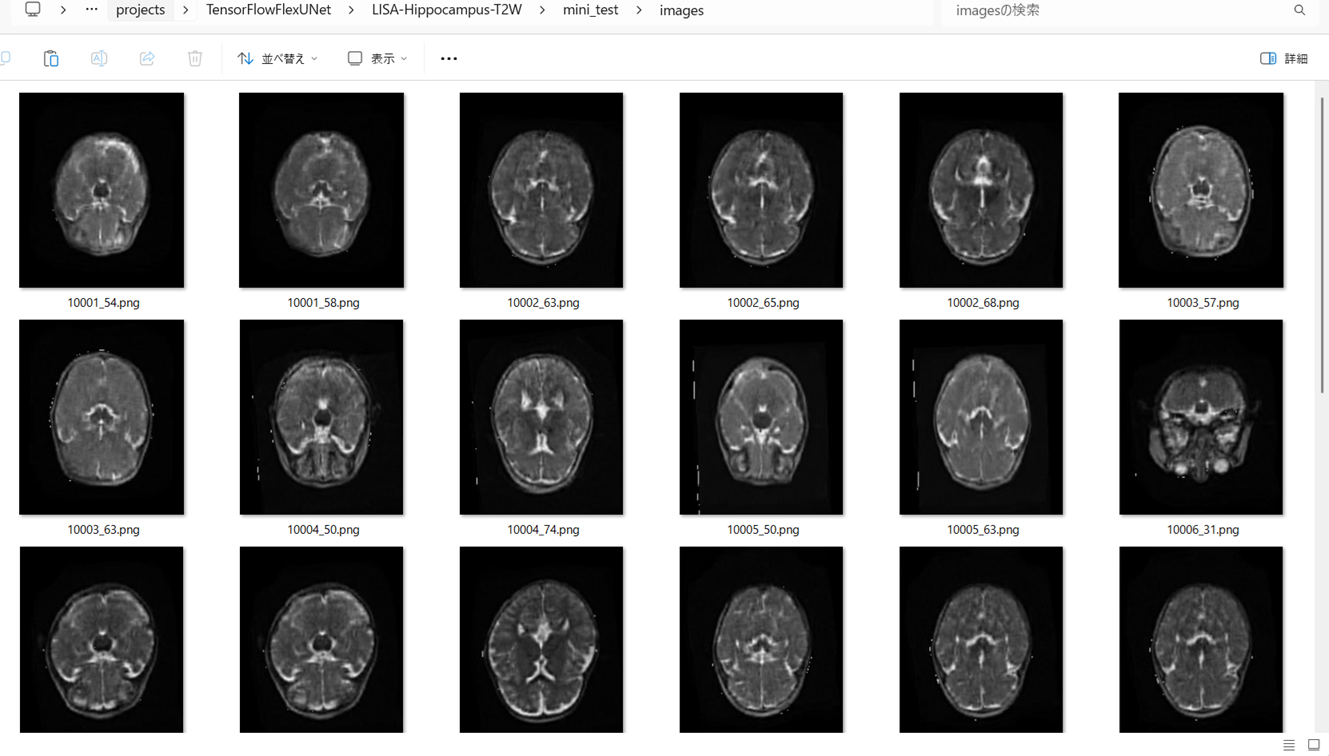
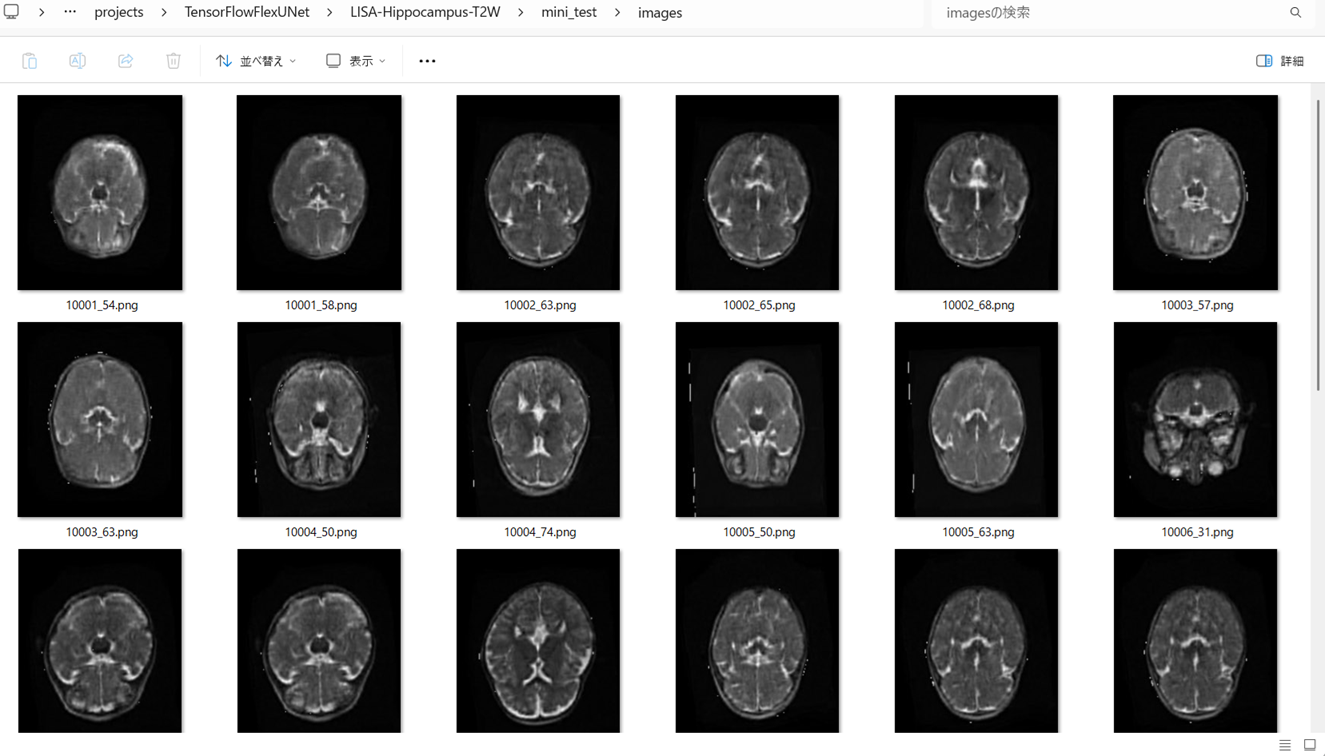
Updated README.md

diff --git a/README.md b/README.md
@@ -113,7 +113,7 @@ RISE-MICCAI-LISA-Hippocampus-T2W-ImageMask-Dataset.zip</a>, expand the downloade
 <b>LISA-Hippocampus-T2W Statistics</b><br>
 <img src ="./projects/TensorFlowFlexUNet/LISA-Hippocampus-T2W/LISA-Hippocampus-T2W_Statistics.png" width="512" height="auto"><br>
 <br><br>
-As shown above, the number of images of train and valid datasets is large enough to use for the
+As shown above, the number of images of train and valid datasets is not so large to use for the
  training set of our segmentation model.
 <br><br>
 <h3>2.2 Derivation PNG dataset</h3>
@@ -259,7 +259,7 @@ discouraging results.
 <img src="./projects/TensorFlowFlexUNet/LISA-Hippocampus-T2W/asset/epoch_change_infer_at_end.png" width="1024" height="auto"><br>
 <br>
 
-In this experiment, the training process was stopped at epoch 40 by EarlyStopping callback.<br><br>
+In this experiment, the training process was terminated at epoch 40.<br><br>
 <img src="./projects/TensorFlowFlexUNet/LISA-Hippocampus-T2W/asset/train_console_output_at_epoch40.png" width="1024" height="auto"><br>
 <br>
 
